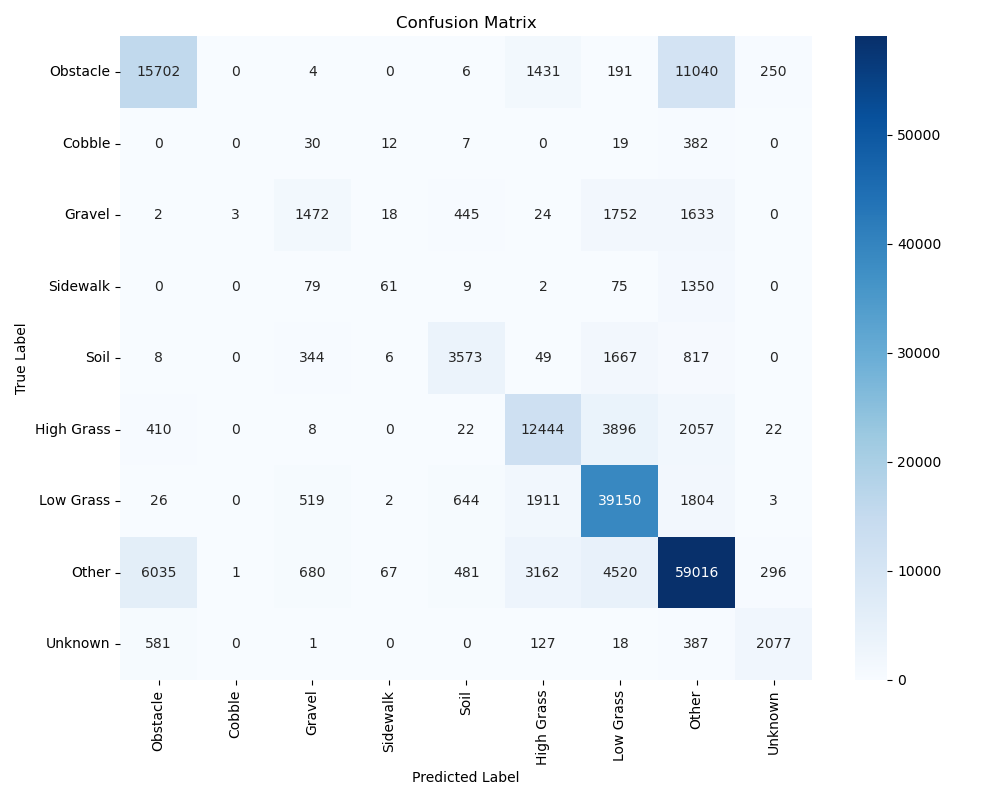
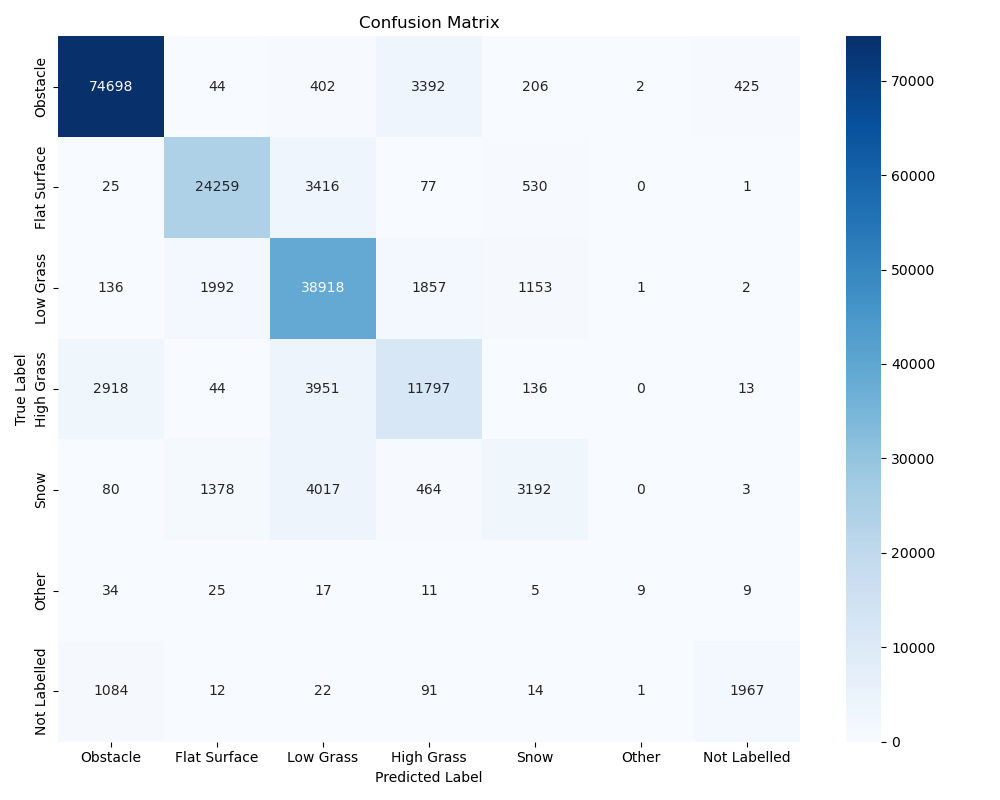
Changed feature selection in feature_importance_reduced.py and corresponding grpahs, and added the learning curves

diff --git a/full_dataset_analysis/feature_importance_reduced.py b/full_dataset_analysis/feature_importance_reduced.py
@@ -16,6 +16,10 @@ from sklearn.metrics import (
     precision_score,
     recall_score,
 )
+from sklearn.tree import export_graphviz
+#import graphviz
+from sklearn.model_selection import learning_curve
+import numpy as np
 
 def load_data(pickle_file):
     """Load data from a pickle file."""
@@ -45,65 +49,36 @@ def prepare_data(full_voxel_df):
 def map_labels_to_categories(label_mapping, label_key):
     """Map label keys to category indices."""
     obstacle_labels = {
-        "animal",
-        "barrel",
-        "barrier_tape",
-        "bicycle",
-        "boom_barrier",
-        "bridge",
-        "building",
-        "bus",
-        "car",
-        "caravan",
-        "container",
-        "debris",
-        "fence",
-        "guard_rail",
-        "heavy_machinery",
+        "forest",
         "hedge",
-        "kick_scooter",
-        "misc_sign",
-        "motorcycle",
-        "obstacle",
-        "person",
-        "pole",
-        "rail_track",
-        "rider",
-        "road_block",
-        "rock",
-        "scenery_vegetation",
-        "street_light",
-        "traffic_cone",
-        "traffic_light",
-        "traffic_sign",
-        "trailer",
+        "building",
         "tree_crown",
-        "tree_root",
-        "tree_trunk",
-        "truck",
-        "tunnel",
+        "bush",
+        "obstacle",
+        "fence",
+        "crops",
+        "ego_vehicle",
         "wall",
-        "wire",
+        "debris",
+        "bridge",
+        "leaves",
+        
     }
-    passable_labels = {"asphalt", "cobble", "gravel", "sidewalk", "soil", "low_grass"}
     if label_key not in label_mapping:
-        return 8
+        return 6
     if label_mapping[label_key] in obstacle_labels:
         return 0
-    elif label_mapping[label_key] == "cobble":
+    elif label_mapping[label_key] in {"sidewalk", "curb", "cobble", "gravel", "soil", "asphalt"}:
         return 1
-    elif label_mapping[label_key] == "gravel":
-        return 2
-    elif label_mapping[label_key] == "sidewalk":
-        return 3
-    elif label_mapping[label_key] == "soil":
-        return 4
-    elif label_mapping[label_key] == "high_grass":
-        return 5
     elif label_mapping[label_key] == "low_grass":
-        return 6
+        return 2
+    elif label_mapping[label_key] == "high_grass":
+        return 3
+    elif label_mapping[label_key] == "snow":
+        return 4
     else:
-        return 7
+        #print(f"Unknown label: {label_key}")
+        return 5
 
 def map_labels(voxel_df):
     """Map labels in the dataframe to categories."""
@@ -178,14 +153,12 @@ def train_and_evaluate(reduced_voxel_df, output_dir):
 
     category_labels = {
         0: 'Obstacle',
-        1: 'Cobble',
-        2: 'Gravel',
-        3: 'Sidewalk',
-        4: 'Soil',
-        5: 'High Grass',
-        6: 'Low Grass',
-        7: 'Other',
-        8: 'Unknown',
+        1: 'Flat Surface',
+        2: 'Low Grass',
+        3: 'High Grass',
+        4: 'Snow',
+        5: 'Other',
+        6: 'Not Labelled'
     }
 
     labels_names = [category_labels[label] for label in labels]
@@ -219,6 +192,78 @@ def train_and_evaluate(reduced_voxel_df, output_dir):
     plt.tight_layout()
     plt.savefig(os.path.join(output_dir, "feature_importances.png"))
     plt.close()
+    
+    f1_per_class = f1_score(y_test, y_pred, average=None)
+    recall_per_class = recall_score(y_test, y_pred, average=None)
+    
+    # Create positions for the bars
+    x = np.arange(len(labels))
+    width = 0.35
+    
+    fig, ax = plt.subplots(figsize=(12, 6))
+    ax.bar(x - width/2, f1_per_class, width, label='F1 Score', color='skyblue')
+    ax.bar(x + width/2, recall_per_class, width, label='Recall', color='lightcoral')
+    
+    ax.set_ylabel('Score')
+    ax.set_title('F1 and Recall Scores by Class')
+    ax.set_xticks(x)
+    ax.set_xticklabels([category_labels[label] for label in labels], rotation=45, ha='right')
+    ax.legend()
+    plt.tight_layout()
+    plt.savefig(os.path.join(output_dir, "f1_recall_scores.png"))
+    plt.close()
+
+    # 2. Plot Learning Curve
+    train_sizes = [0.001, 0.01, 0.1, 0.2, 0.4, 0.6, 0.8, 1.0]
+    train_sizes, train_scores, val_scores = learning_curve(
+        forest_clf, X, y,
+        train_sizes=train_sizes,
+        cv=3,
+        n_jobs=-1,
+        scoring='f1_weighted'
+    )
+
+    train_mean = np.mean(train_scores, axis=1)
+    train_std = np.std(train_scores, axis=1)
+    val_mean = np.mean(val_scores, axis=1)
+    val_std = np.std(val_scores, axis=1)
+
+    plt.figure(figsize=(10, 6))
+    plt.plot(train_sizes, train_mean, label='Training score', color='blue')
+    plt.fill_between(train_sizes, train_mean - train_std, train_mean + train_std, alpha=0.1, color='blue')
+    plt.plot(train_sizes, val_mean, label='Cross-validation score', color='red')
+    plt.fill_between(train_sizes, val_mean - val_std, val_mean + val_std, alpha=0.1, color='red')
+
+    plt.xlabel('Training Examples')
+    plt.ylabel('F1 Score')
+    plt.title('Learning Curve')
+    plt.legend(loc='lower right')
+    plt.grid(True)
+    plt.tight_layout()
+    plt.savefig(os.path.join(output_dir, "learning_curve.png"))
+    plt.close()
+    # TODO : Discuss if we want to keep this (need some debugging)
+    '''
+    # 3. Visualize a single tree from the forest
+    # Get a tree from the forest
+    estimator = forest_clf.estimators_[0]
+    
+    # Export the tree to a dot file
+    dot_data = export_graphviz(
+        estimator,
+        out_file=None,
+        feature_names=X.columns,
+        class_names=[category_labels[i] for i in sorted(category_labels.keys())],
+        filled=True,
+        rounded=True,
+        special_characters=True,
+        max_depth=3  # Limit depth for visibility
+    )
+    
+    # Create and save the tree visualization
+    graph = graphviz.Source(dot_data)
+    graph.render(os.path.join(output_dir, "decision_tree"), format="png", cleanup=True)
+    '''
 
 def main():
     """Main function to execute the data processing and model training."""
